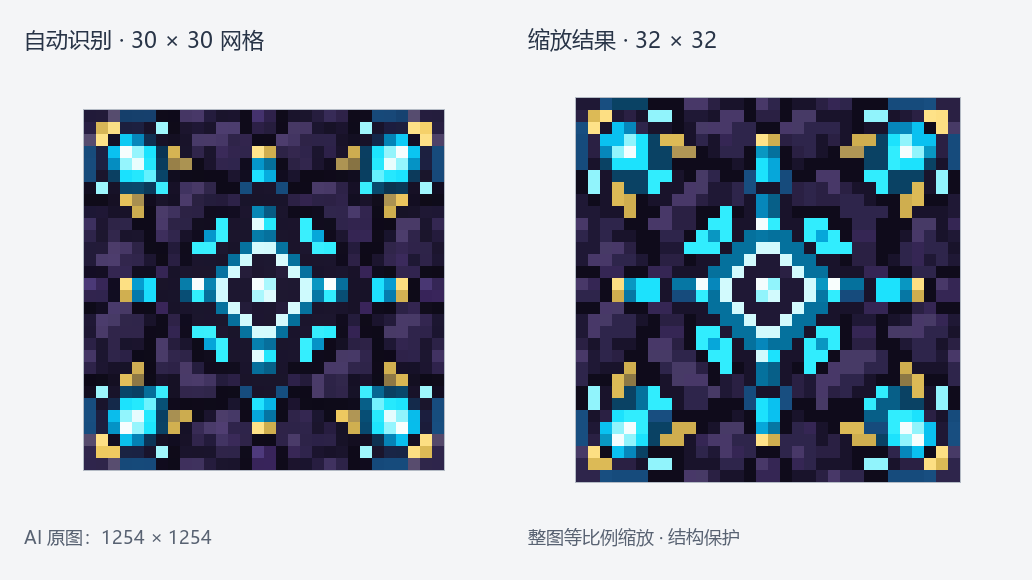
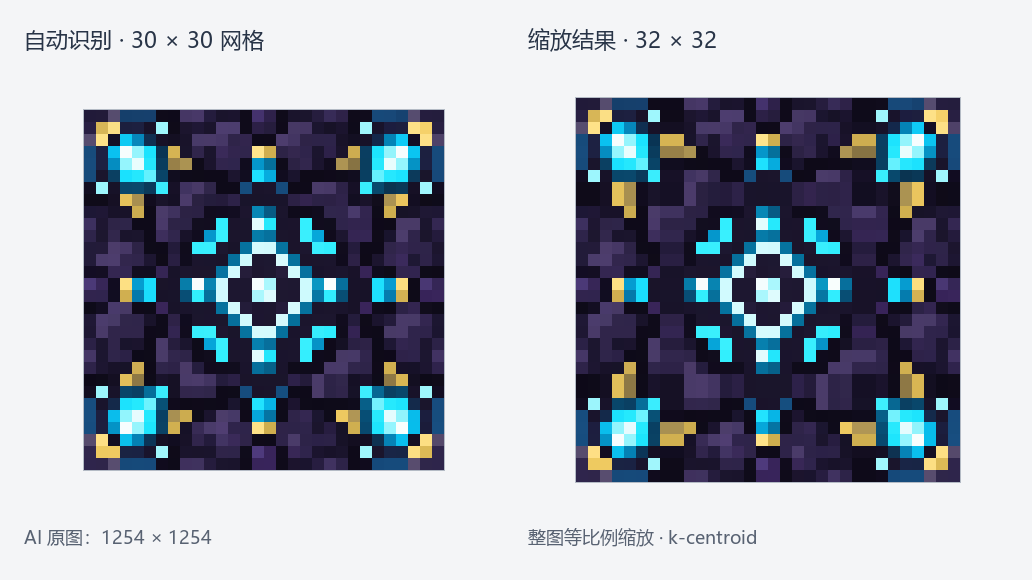
附魔台放大示例改用 k-centroid 算法

diff --git a/scripts/create_readme_examples.py b/scripts/create_readme_examples.py
@@ -98,7 +98,7 @@ def main():
     ], zoom=8)
     comparison('enchanting-table-comparison.png', [
         (pictures['enchanting-table-grid'], '自动识别 · 30 × 30 网格', 'AI 原图：1254 × 1254'),
-        (pictures['enchanting-table-fit'], '缩放结果 · 32 × 32', '整图等比例缩放 · 结构保护'),
+        (pictures['enchanting-table-fit'], '缩放结果 · 32 × 32', '整图等比例缩放 · k-centroid'),
     ], zoom=12)
     (ASSETS / 'examples.json').write_text(json.dumps(dict(implementation='JavaScript', examples=records),
                                                     ensure_ascii=False, indent=2) + '\n', encoding='utf-8')

diff --git a/README.md b/README.md
@@ -20,15 +20,15 @@
 ![冰淇淋自动识别与网格化](docs/assets/ice-cream-grid-comparison.png)
 
 冰淇淋主体为 **20×35**：裁剪画布可去掉透明留白、保留主体像素；
-等比例缩放到 **20×32** 画布时，主体为 **18×32**。
+使用结构保护等比例缩放到 **20×32** 画布时，主体为 **18×32**。
 
 ![冰淇淋裁剪画布与主体缩放](docs/assets/ice-cream-layout-comparison.png)
 
-附魔台顶面识别为 **30×30** 网格，再使用缩放功能转换为 **32×32** 贴图。
+附魔台顶面识别为 **30×30** 网格，再使用 **k-centroid** 放大为 **32×32** 贴图。
 
 ![附魔台顶面从30×30缩放到32×32](docs/assets/enchanting-table-comparison.png)
 
-以上均为 JavaScript 版实际处理结果，缩放使用结构保护，展示时按最近邻放大。
+以上均为 JavaScript 版实际处理结果，展示时按最近邻放大。
 
 ## 使用
 
